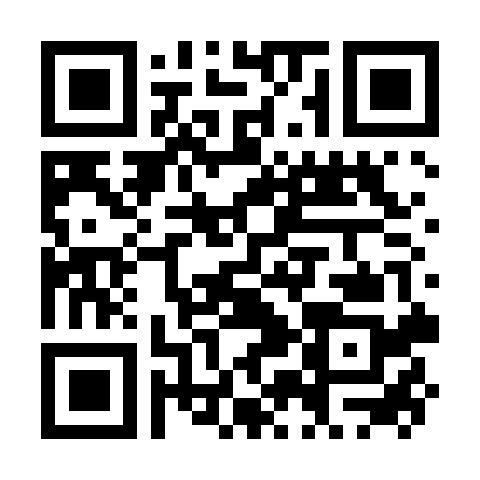
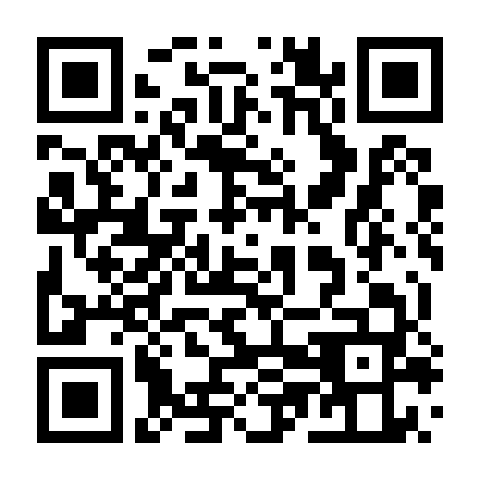
fix qr code and some links

diff --git a/index.html b/index.html
@@ -320,7 +320,7 @@
       margin-right: 0; 
     }
   </style>
-<script type="application/json" id="xaringanExtra-editable-docid">{"id":"f7fde86c7c864861b2e84194de04d7b9","expires":1}</script><script src="index_files/libs/himalaya-1.1.0/himalaya.js"></script><script src="index_files/libs/js-cookie-3.0.0/js.cookie.js"></script><link href="index_files/libs/editable-0.2.6/editable.css" rel="stylesheet">
+<script type="application/json" id="xaringanExtra-editable-docid">{"id":"d4d7f60c3ee847849db83ad334a9dba6","expires":1}</script><script src="index_files/libs/himalaya-1.1.0/himalaya.js"></script><script src="index_files/libs/js-cookie-3.0.0/js.cookie.js"></script><link href="index_files/libs/editable-0.2.6/editable.css" rel="stylesheet">
 <script src="index_files/libs/editable-0.2.6/editable.js"></script>
 </head>
 <body class="quarto-light">
@@ -329,7 +329,7 @@
 
 <section id="title-slide" data-background-image="title_image.png" data-background-opacity="0.4" class="quarto-title-block center"><h1 class="title">
 <del>dance like nobody’s watching</del>🕺 <br>write like nobody’s reading? ✍</h1>
-  <p class="subtitle">low-stakes writing, academic reflection &amp; graduate profile capabilities for the April ECR workshop</p>
+  <p class="subtitle">low-stakes writing, academic reflection &amp; graduate profile capabilities; ECR workshop</p>
 
 <div class="quarto-title-authors">
 <div class="quarto-title-author">
@@ -348,7 +348,7 @@ liza bolton
 <figure><p><img data-src="img/qr-slide.png" style="width:40.0%"></p>
 </figure>
 </div>
-<p>or go to <a href="link.lizabolton.com">link.lizabolton.com</a></p>
+<p>or go to <a href="http://link.lizabolton.com">link.lizabolton.com</a></p>
 </section><section><section id="kia-ora" class="title-slide slide level1 center"><h1>kia ora 👋</h1>
 <div class="cell">
 <div class="cell-output-display">
@@ -431,8 +431,8 @@ My name is Liza</p>
 <li class="fragment"><p>Because ________ said you have to (lecturer, boss, journal publisher, grant authority…etc.) 💼</p></li>
 </ul>
 </div>
-</section><section id="what-is-low-stakes-writing" class="slide level2"><h2>what is low stakes writing?</h2>
-<p>Low stakes writing is writing where students do not need to feel a lot of pressure about writing — it is usually ‘low stakes’ in that it isn’t worth a lot of <strong>marks,</strong> but there are also <span class="highlight bold"><strong>reputational risks</strong></span> that students perceive when others will be reading their writing.</p>
+</section><section id="what-is-low-stakes-writing" class="slide level2"><h2>what is low-stakes writing?</h2>
+<p>Low-stakes writing is writing where students do not feel a lot of pressure about writing — it is usually ‘low stakes’ in that it isn’t worth a lot of <strong>marks,</strong> but there are also <span class="highlight bold"><strong>reputational risks</strong></span> that students perceive when others will be reading their writing.</p>
 <ul>
 <li>
 <p>Opportunities for anonymous writing <em>in class</em></p>
@@ -450,8 +450,12 @@ My name is Liza</p>
 </ul></section><section id="additional-considerations" class="slide level2"><h2>additional considerations</h2>
 <ul>
 <li><p>Writing may be especially daunting for <strong>English Language Learners</strong> / students for whom English is an additional language, and students who may not have <strong>adequate preparation from high school</strong> / had a long gap before university. This shouldn’t deter us from encouraging writing, and in fact is <em>exactly why</em> we should integrate practice and provide resources.</p></li>
-<li><p>Not all students will be familiar with common instructions for writing that might be common. I’ve encountered this most from students who did not do highschool in Aotearoa / recently.</p></li>
-<li><p>Examples include: “compare and contrast”, “describe” vs “discuss”, what it means to interpret something “in context”.</p></li>
+<li>
+<p>Not all students will be familiar with common instructions for writing that might be common. I’ve encountered this most from students who did not do high school in Aotearoa / recently.</p>
+<ul>
+<li>Examples include: “compare and contrast”, “describe” vs “discuss”, what it means to interpret something “in context”.</li>
+</ul>
+</li>
 </ul></section></section><section><section id="academic-reflection" class="title-slide slide level1 center"><h1>academic reflection</h1>
 <div class="quarto-figure quarto-figure-center">
 <figure><p><img data-src="https://64.media.tumblr.com/ce1de833fb974985cf590f2e9772613d/tumblr_opm0vizLyj1st0dt8o3_540.gifv" style="width:60.0%"></p>
@@ -460,15 +464,16 @@ My name is Liza</p>
 <div class="footer">
 <p>🎶 when will my reflection show, who i am inside?🎶</p>
 </div>
-<p>–</p>
-<blockquote>
+</section><section class="slide level2"><blockquote>
 <p>Education begins the gentleman, but reading, good company and reflection must finish him. ~John Locke</p>
 </blockquote>
+<p><br></p>
 <blockquote>
 <p>By three methods we may learn wisdom: First, by reflection, which is noblest; Second, by imitation, which is easiest; and third by experience, which is the bitterest. ~Confucius</p>
 </blockquote>
 </section><section id="what-is-academic-reflection" class="slide level2"><h2>what is academic reflection?</h2>
 <p>“Academic reflective writing requires critical and analytic thought, a clear line of argument, and the use of evidence through examples of personal experiences and thoughts and often also theoretical literature.” from the University of Edinburgh <a href="https://www.ed.ac.uk/reflection/reflectors-toolkit/producing-reflections/academic-reflections/general-tips">Reflection Toolkit</a>.</p>
+<p><br></p>
 <p>“<strong>Critical reflection</strong> is the conscious examination of past experiences, thoughts and ways of doing things. Its goal is to surface learning about oneself and a situation, and to bring meaning to it in order to inform the present and the future. Reflection challenges the status quo of practice, thoughts and assumptions and may therefore inform our decisions, actions, attitudes, beliefs and understanding about ourselves.” from the <a href="https://www.ed.ac.uk/sites/default/files/atoms/files/reflection_literature_review.pdf">University of Edinburgh Reflection Toolkit literature review</a></p>
 </section></section><section><section id="graduate-profiles" class="title-slide slide level1 center"><h1>graduate profiles</h1>
 <p>🔗 <a href="https://www.auckland.ac.nz/en/students/forms-policies-and-guidelines/student-policies-and-guidelines/graduate-profile.html" title="Graduate capabilities">Link</a></p>
@@ -482,10 +487,10 @@ My name is Liza</p>
 <p><strong>Kaiarataki | Leaders</strong> – Graduates are influential, inspiring and impactful. They are inclusive, empowering and service-minded.</p>
 </section><section id="level-2-graduate-capabilities-themes" class="slide level2"><h2>level 2: <strong>graduate capabilities – themes</strong>
 </h2>
-<table style="width:94%;">
+<table style="width:92%;">
 <colgroup>
-<col style="width: 52%">
-<col style="width: 41%">
+<col style="width: 51%">
+<col style="width: 40%">
 </colgroup>
 <tbody>
 <tr class="odd">
